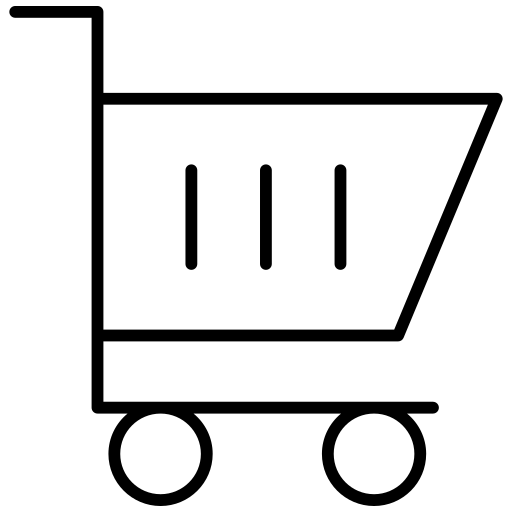
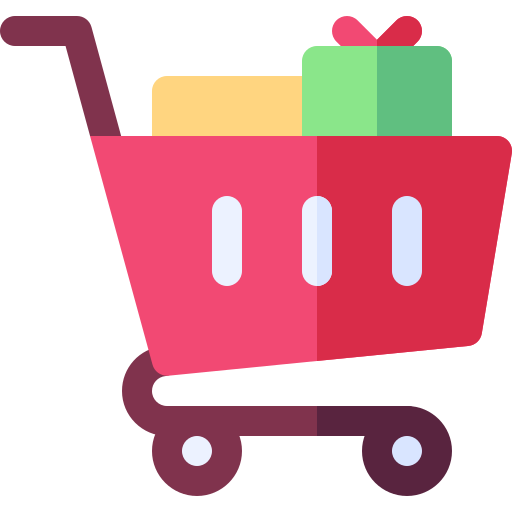
feat: cart-design (#160)

diff --git a/client/src/components/Navbar/Navbar.js b/client/src/components/Navbar/Navbar.js
@@ -55,11 +55,11 @@ export default function Navbar() {
           }}>
           <div>
             <Link to="/myProductList" className="text-decoration-none">
-              <button type="button" className="position-relative">
+              <button type="button" className="position-relative cart-btn">
                 <img
-                  className="shopping-card"
+                  className="shopping-cart"
                   src={Shopping}
-                  alt="shopping card"
+                  alt="shopping cart"
                 />
                 <span className="position-absolute top-0 start-100 translate-middle badge rounded-pill bg-danger">
                   {myListItem}

diff --git a/client/src/components/Navbar/Navbar.css b/client/src/components/Navbar/Navbar.css
@@ -36,7 +36,13 @@
   cursor: pointer;
   color: white;
 }
-.shopping-card {
+
+.cart-btn{
+  border-radius: 5px;
+  padding: 3px 7px 3px 7px;
+}
+
+.shopping-cart {
   height: 25px;
   width: 25px;
 }
